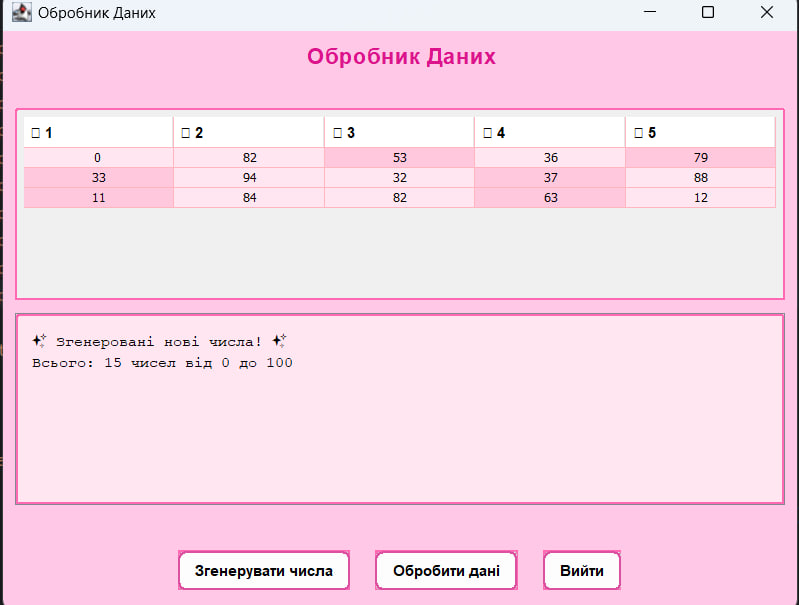
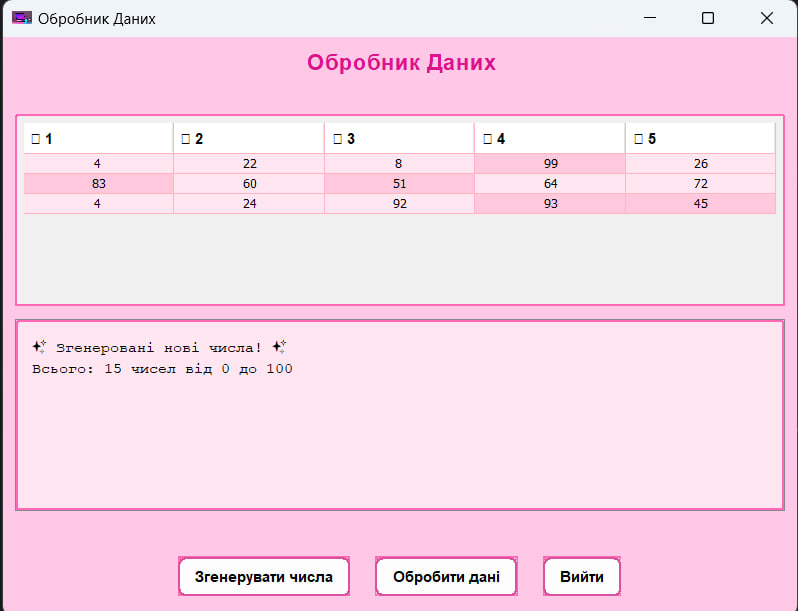
Update files

diff --git a/OOP/src/task7/Main.java b/OOP/src/task7/Main.java
@@ -284,6 +284,14 @@ class PinkUI extends JFrame {
         setDefaultCloseOperation(JFrame.EXIT_ON_CLOSE);
         getContentPane().setBackground(new Color(255, 200, 230));
 
+        // Додання іконки програми
+        try {
+            ImageIcon icon = new ImageIcon("C:\\Users\\Еля\\Desktop\\task7.jpg");  // Правильний шлях з подвійними зворотними слешами
+            setIconImage(icon.getImage());  // Задаємо іконку
+        } catch (Exception e) {
+            System.err.println("Не вдалося завантажити іконку: " + e.getMessage());
+        }
+
         // Макет головного вікна
         setLayout(new BorderLayout(10, 10));
 

diff --git a/out/production/OOP.Bohomaz/task7/Readme.md b/out/production/OOP.Bohomaz/task7/Readme.md
@@ -2,10 +2,26 @@
 ## 📌 Завдання
 1. Розробити графічний інтерфейс та реалізувати його для попередніх завдань
 ## 📖 Опис
-
+Графічний інтерфейс застосунок на Java для генерації, візуалізації та обробки випадкових чисел. Застосунок використовує багатопотоковість для асинхронного виконання команд та інтерактивного оновлення UI.
 ## 🖼 Скріншот
-
+![task7.1.jpg](../../../image/task7.1.jpg) ![task7.2.jpg](../../../image/task7.2.jpg) ![task7.3.jpg](../../../image/task7.3.jpg)
 ## 🔗 Посилання
-[Програма]()
+[Програма](https://github.com/ElinaBohomaz/OOP.Bohomaz/blob/main/OOP/src/task7/Main.java)
 ## ⚙ Що робить програма?
-✅
+✅ Генерація випадкових чисел у вказаному діапазоні
+
+✅ Відображення чисел у таблиці з кольоровим оформленням
+
+✅ Паралельна обробка даних, включаючи:
+
+  ✏ Обчислення мінімального та максимального значення;
+
+  ✏ Обчислення середнього значення;
+
+  ✏ Підрахунок суми чисел;
+
+  ✏ Поділ чисел на парні та непарні;
+
+  ✏ Розподіл чисел відносно порогового значення (50).
+
+✅ Графічний інтерфейс, оформлений у ніжних рожевих тонах
